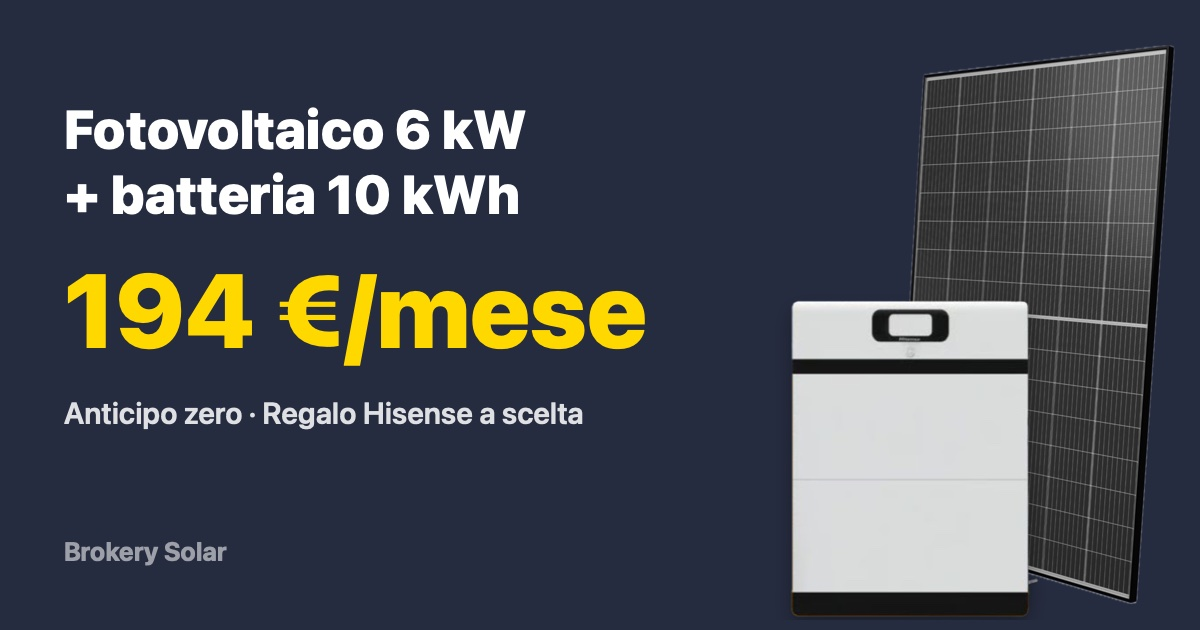
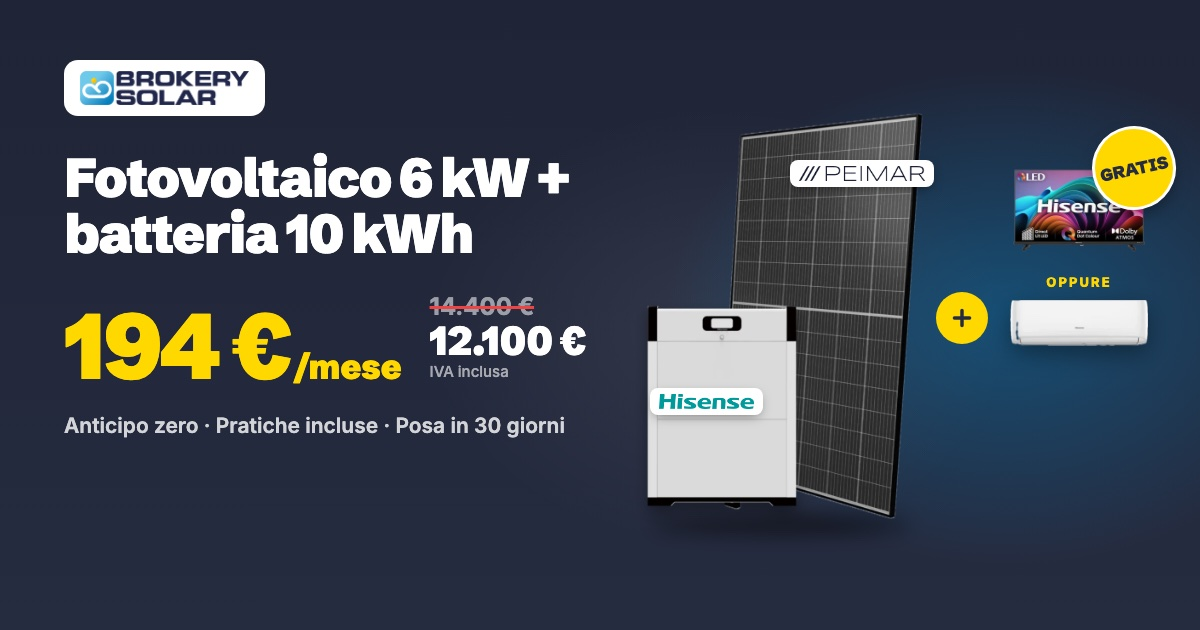
seo

diff --git a/promo-6kw/index.html b/promo-6kw/index.html
@@ -20,7 +20,7 @@
   <meta property="og:image" content="https://brokerysolar.it/promo-6kw/img/og-image.jpg">
   <meta property="og:image:width" content="1200">
   <meta property="og:image:height" content="630">
-  <meta property="og:image:alt" content="Pannello fotovoltaico e batteria di accumulo con la scritta 194 euro al mese">
+  <meta property="og:image:alt" content="Pannello Peimar e batteria Hisense più una Smart TV o un climatizzatore Hisense in regalo: 194 euro al mese oppure 12.100 euro invece di 14.400">
   <meta name="twitter:card" content="summary_large_image">
   <meta name="twitter:title" content="Fotovoltaico 6 kW + batteria 10 kWh a 194 €/mese, anticipo zero">
   <meta name="twitter:description" content="12.100 € IVA inclusa o 194 € al mese. In regalo una Smart TV o un climatizzatore Hisense.">
